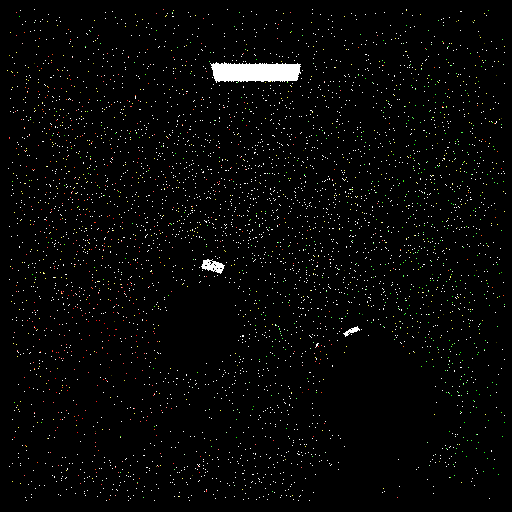
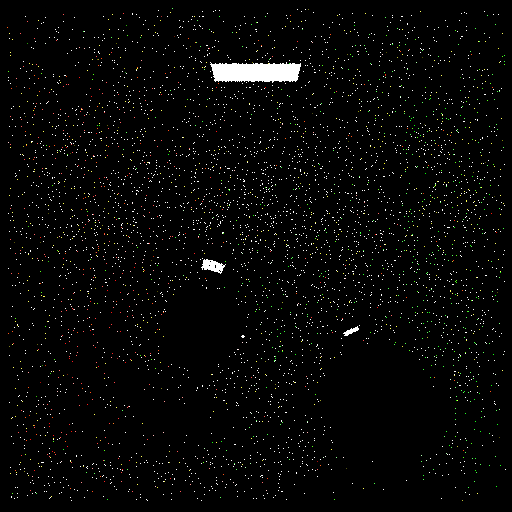
work on refraction

diff --git a/materials.py b/materials.py
@@ -91,8 +91,9 @@ class MirrorMaterial(Material):
         return (new_ray, 1.0)
 
 class GlassMaterial(Material):
-    def __init__(self, color=glm.vec3(1)):
+    def __init__(self, color=glm.vec3(1), refractive_index=1.0):
         self.color = color
+        self.refractive_index = refractive_index
     
     def emission(self):
         return glm.vec3(0)
@@ -102,5 +103,21 @@ class GlassMaterial(Material):
         return glm.vec3(0)
 
     def sample_ray(self, ray, N, P):
-        # TODO
-        return (ray,  1.0)
+        I = -ray.direction
+        NdotI = glm.dot(N, I)
+        V  = N if NdotI > 0.0 else -N
+
+        n1  = 1.0 if NdotI > 0.0 else self.refractive_index
+        n2  = self.refractive_index if NdotI > 0.0  else 1.0
+        
+        VdotI = glm.dot(V, I)
+        eta   = n1 / n2
+        c1    = VdotI
+        c2    = 1.0 - (eta*eta)*(1.0-(c1*c1))
+        c2           = math.sqrt(c2)
+        new_dir = V*(eta*c1-c2) - eta*I
+
+        new_ray = Ray() 
+        new_ray.direction = new_dir
+        new_ray.origin = P + 0.001 * new_dir
+        return (new_ray, 1.0)
